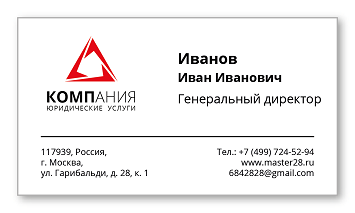
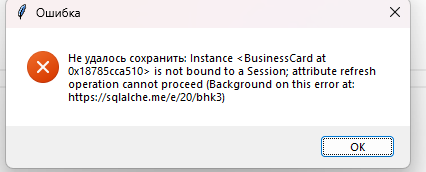
подключение к бд, два экрана для работы с бд

Changed region(s): [[0.0, 0.0, 1.0, 1.0], [0.093, 0.6977, 0.4028, 0.843], [0.0, 0.0, 0.031, 0.0291]]

diff --git a/simple_app.py b/simple_app.py
@@ -1,11 +1,12 @@
 import tkinter as tk
-from tkinter import filedialog, scrolledtext
+from tkinter import filedialog, scrolledtext, messagebox, ttk
 import os
 import uuid
 import json
 from dotenv import find_dotenv, load_dotenv
 from langchain_gigachat.chat_models import GigaChat
 from langchain_core.runnables import RunnableConfig
+from database import save_business_card, SessionLocal, BusinessCard
 
 load_dotenv(find_dotenv())
 
@@ -22,7 +23,7 @@ def recognize_text_from_image(image_path):
     
     message = {
         "role": "user",
-        "content": "Распознай визитную карточку и верни JSON с полями: full_name, status, Company_name, phone_number, adress, email. Ответ только JSON, никакого дополнительного текста.",
+        "content": "Распознай визитную карточку и верни JSON с полями: full_name, status, Company_name, phone_number, adress, email, website, additional_info. Ответ только JSON, никакого дополнительного текста.",
         "attachments": [file_uploaded_id]
     }
     
@@ -64,17 +65,115 @@ def select_and_recognize():
             entries['email'].delete(0, tk.END)
             entries['email'].insert(0, data.get('email', ''))
             
+            entries['website'].delete(0, tk.END)
+            entries['website'].insert(0, data.get('website', ''))
+            
+            entries['additional_info'].delete(0, tk.END)
+            entries['additional_info'].insert(0, data.get('additional_info', ''))
+            
         except Exception as e:
             for entry in entries.values():
                 entry.delete(0, tk.END)
                 entry.insert(0, f"Ошибка: {str(e)}")
 
-root = tk.Tk()
-root.title("Распознавание визитных карт")
-root.geometry("400x300")
+def save_to_db():
+    data = {}
+    for field_name, entry in entries.items():
+        data[field_name] = entry.get()
+    
+    try:
+        card_id = save_business_card(data)
+        messagebox.showinfo("Успех", f"Визитка сохранена в БД с ID: {card_id}")
+        load_db_data()
+    except Exception as e:
+        messagebox.showerror("Ошибка", f"Не удалось сохранить: {str(e)}")
 
-button = tk.Button(root, text="Выбрать изображение", command=select_and_recognize, font=("Arial", 12))
+def load_db_data():
+    for item in tree.get_children():
+        tree.delete(item)
+    
+    session = SessionLocal()
+    cards = session.query(BusinessCard).all()
+    
+    for card in cards:
+        tree.insert("", "end", values=(
+            card.id,
+            card.full_name or "",
+            card.Company_name or "",
+            card.phone_number or "",
+            card.email or ""
+        ))
+    
+    session.close()
+
+def on_tree_select(event):
+    selection = tree.selection()
+    if selection:
+        item = tree.item(selection[0])
+        card_id = item['values'][0]
+        
+        session = SessionLocal()
+        card = session.query(BusinessCard).filter(BusinessCard.id == card_id).first()
+        
+        if card:
+            entries['full_name'].delete(0, tk.END)
+            entries['full_name'].insert(0, card.full_name or "")
+            
+            entries['status'].delete(0, tk.END)
+            entries['status'].insert(0, card.status or "")
+            
+            entries['Company_name'].delete(0, tk.END)
+            entries['Company_name'].insert(0, card.Company_name or "")
+            
+            entries['phone_number'].delete(0, tk.END)
+            entries['phone_number'].insert(0, card.phone_number or "")
+            
+            entries['adress'].delete(0, tk.END)
+            entries['adress'].insert(0, card.adress or "")
+            
+            entries['email'].delete(0, tk.END)
+            entries['email'].insert(0, card.email or "")
+            
+            entries['website'].delete(0, tk.END)
+            entries['website'].insert(0, card.website or "")
+            
+            entries['additional_info'].delete(0, tk.END)
+            entries['additional_info'].insert(0, card.additional_info or "")
+        
+        session.close()
+
+root = tk.Tk()
+root.title("Управление визитными картами")
+root.geometry("1000x600")
+
+# Левый фрейм - данные из БД
+left_frame = tk.Frame(root)
+left_frame.pack(side="left", fill="both", expand=True, padx=10, pady=10)
+
+tk.Label(left_frame, text="База данных визиток", font=("Arial", 14, "bold")).pack(pady=5)
+
+# Таблица
+columns = ("ID", "Имя", "Компания", "Телефон", "Email")
+tree = ttk.Treeview(left_frame, columns=columns, show="headings", height=20)
+
+for col in columns:
+    tree.heading(col, text=col)
+    tree.column(col, width=100)
+
+tree.pack(fill="both", expand=True)
+tree.bind("<<TreeviewSelect>>", on_tree_select)
+
+# Правый фрейм - добавление визиток
+right_frame = tk.Frame(root)
+right_frame.pack(side="right", fill="both", expand=True, padx=10, pady=10)
+
+tk.Label(right_frame, text="Добавление визитки", font=("Arial", 14, "bold")).pack(pady=5)
+
+button = tk.Button(right_frame, text="Выбрать изображение", command=select_and_recognize, font=("Arial", 12))
 button.pack(pady=10)
+
+save_button = tk.Button(right_frame, text="Сохранить в БД", command=save_to_db, font=("Arial", 12))
+save_button.pack(pady=5)
 
 entries = {}
 fields = [
@@ -83,19 +182,24 @@ fields = [
     ("Компания:", "Company_name"),
     ("Телефон:", "phone_number"),
     ("Адрес:", "adress"),
-    ("Email:", "email")
+    ("Email:", "email"),
+    ("Сайт:", "website"),
+    ("Доп. инфо:", "additional_info")
 ]
 
 for label_text, field_name in fields:
-    frame = tk.Frame(root)
+    frame = tk.Frame(right_frame)
     frame.pack(pady=5, padx=20, fill="x")
     
-    label = tk.Label(frame, text=label_text, width=10, anchor="w")
+    label = tk.Label(frame, text=label_text, width=12, anchor="w")
     label.pack(side="left")
     
     entry = tk.Entry(frame, width=30)
     entry.pack(side="right", fill="x", expand=True)
     
     entries[field_name] = entry
+
+# Загрузка данных при запуске
+load_db_data()
 
 root.mainloop()

diff --git a/database.py b/database.py
@@ -1,0 +1,30 @@
+from sqlalchemy import create_engine, Column, Integer, String
+from sqlalchemy.ext.declarative import declarative_base
+from sqlalchemy.orm import sessionmaker
+
+engine = create_engine('sqlite:///business_cards.sqlite')
+SessionLocal = sessionmaker(bind=engine)
+Base = declarative_base()
+
+class BusinessCard(Base):
+    __tablename__ = 'business_cards'
+    
+    id = Column(Integer, primary_key=True)
+    full_name = Column(String)
+    status = Column(String)
+    Company_name = Column(String)
+    phone_number = Column(String)
+    adress = Column(String)
+    email = Column(String)
+    website = Column(String)
+    additional_info = Column(String)
+
+Base.metadata.create_all(bind=engine)
+
+def save_business_card(data):
+    session = SessionLocal()
+    card = BusinessCard(**data)
+    session.add(card)
+    session.commit()
+    session.close()
+    return card.id

diff --git a/check_db.py b/check_db.py
@@ -1,0 +1,16 @@
+from database import SessionLocal, BusinessCard
+
+session = SessionLocal()
+
+# Проверяем все записи
+cards = session.query(BusinessCard).all()
+print(f"Всего записей: {len(cards)}")
+
+for card in cards:
+    print(f"ID: {card.id}")
+    print(f"Имя: {card.full_name}")
+    print(f"Компания: {card.Company_name}")
+    print(f"Email: {card.email}")
+    print("-" * 30)
+
+session.close()
